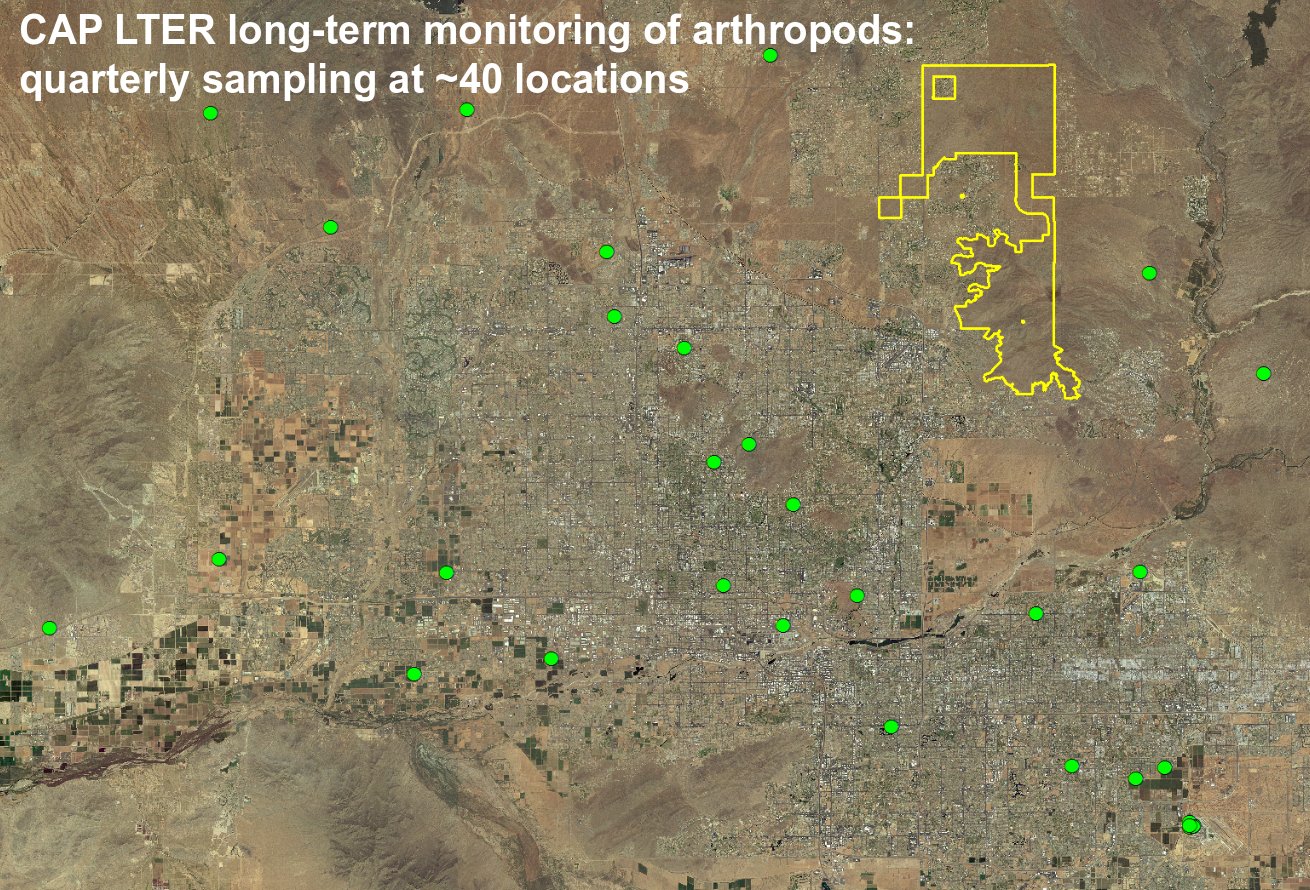
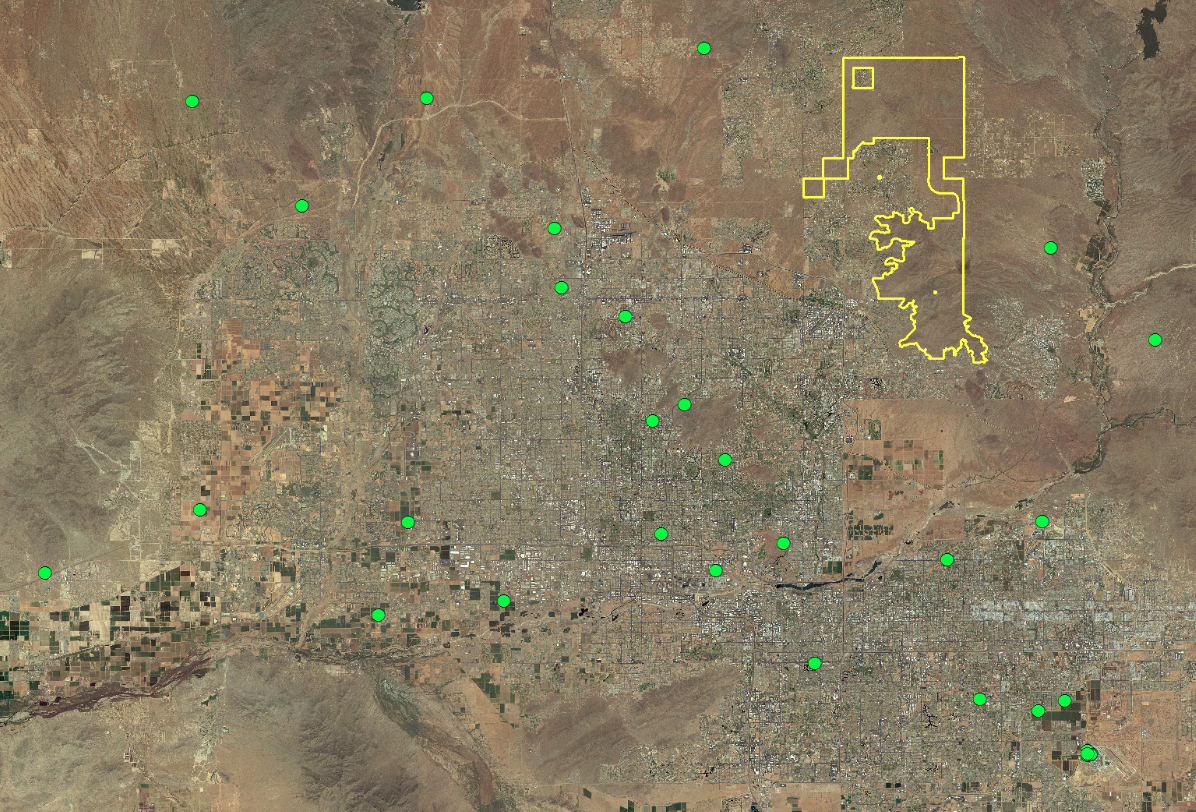
added new figures, updated to .cap-red

diff --git a/index.html b/index.html
@@ -24,6 +24,7 @@ class: center, middle, inverse, title-slide
 .pull-left[
   ![](assets/images/CAPLTERlogo-color.jpg)
   &lt;br&gt;
+  &lt;br&gt;
   * Long-Term Ecological Research: NSF program established 1980
   
   * Currently 28 LTER sites
@@ -39,7 +40,12 @@ class: center, middle, inverse, title-slide
 
 ---
 
-study area...placeholder
+.cap-red[**CAP LTER study area**]
+
+.center[
+  ![](assets/images/cap-study-area.png)
+  &lt;!-- &lt;img src="assets/images/CAP-conceptual-model.jpg" width="60%"&gt; --&gt;
+]
 
 
 ---
@@ -73,7 +79,7 @@ __*central question:*__ .cap-red[How do the services provided by dynamic urban e
 
 ---
 
-&lt;br&gt;
+.cap-red[**CAP LTER long-term monitoring of arthropods: quarterly sampling at ~40 locations**]
 
 .center[
   ![](assets/images/pitfalls-map.png)
@@ -82,7 +88,7 @@ __*central question:*__ .cap-red[How do the services provided by dynamic urban e
 
 ---
 
-&lt;br&gt;
+.cap-red[**CAP LTER long-term monitoring of arthropods: quarterly sampling at ~40 locations**]
 
 .center[
   ![](assets/images/pitfalls-habitats.png)
@@ -138,10 +144,18 @@ camera trapping placeholder?
 
 ---
 
-#### research data workflow: this is your world (or it will be soon)
+.cap-red[**research data workflow, a model**]
+
+&lt;br&gt;
 
 .center[
   ![](assets/images/workflow_with_data.png)
+]
+
+--
+
+.center[
+  **version control – scripting – databases – naming – organization**
 ]
     </textarea>
 <script src="https://remarkjs.com/downloads/remark-latest.min.js"></script>

diff --git a/biodiversity.html b/biodiversity.html
@@ -24,6 +24,7 @@ class: center, middle, inverse, title-slide
 .pull-left[
   ![](assets/images/CAPLTERlogo-color.jpg)
   &lt;br&gt;
+  &lt;br&gt;
   * Long-Term Ecological Research: NSF program established 1980
   
   * Currently 28 LTER sites
@@ -39,7 +40,12 @@ class: center, middle, inverse, title-slide
 
 ---
 
-study area...placeholder
+.cap-red[**CAP LTER study area**]
+
+.center[
+  ![](assets/images/cap-study-area.png)
+  &lt;!-- &lt;img src="assets/images/CAP-conceptual-model.jpg" width="60%"&gt; --&gt;
+]
 
 
 ---
@@ -73,7 +79,7 @@ __*central question:*__ .cap-red[How do the services provided by dynamic urban e
 
 ---
 
-&lt;br&gt;
+.cap-red[**CAP LTER long-term monitoring of arthropods: quarterly sampling at ~40 locations**]
 
 .center[
   ![](assets/images/pitfalls-map.png)
@@ -82,7 +88,7 @@ __*central question:*__ .cap-red[How do the services provided by dynamic urban e
 
 ---
 
-&lt;br&gt;
+.cap-red[**CAP LTER long-term monitoring of arthropods: quarterly sampling at ~40 locations**]
 
 .center[
   ![](assets/images/pitfalls-habitats.png)
@@ -138,12 +144,16 @@ camera trapping placeholder?
 
 ---
 
-
-&lt;br&gt;
-&lt;br&gt;
+.cap-red[**research data workflow, a model**]
 
 .center[
   ![](assets/images/workflow_with_data.png)
+]
+
+--
+
+.center[
+  **version control – scripting – databases – naming – organization**
 ]
     </textarea>
 <script src="https://remarkjs.com/downloads/remark-latest.min.js"></script>
